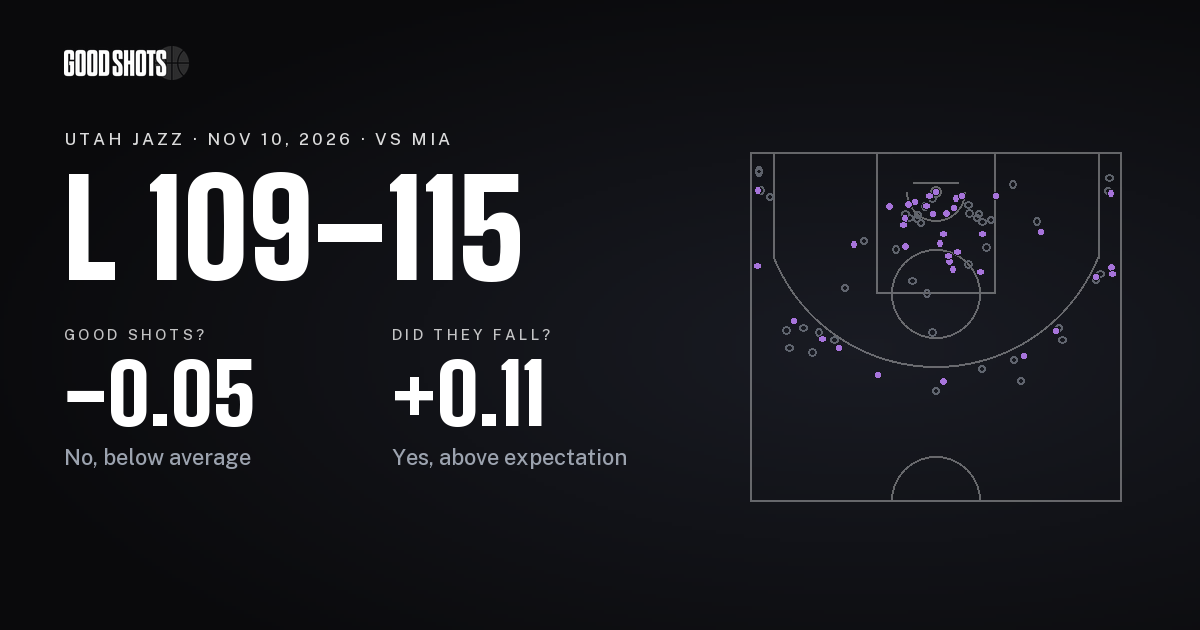
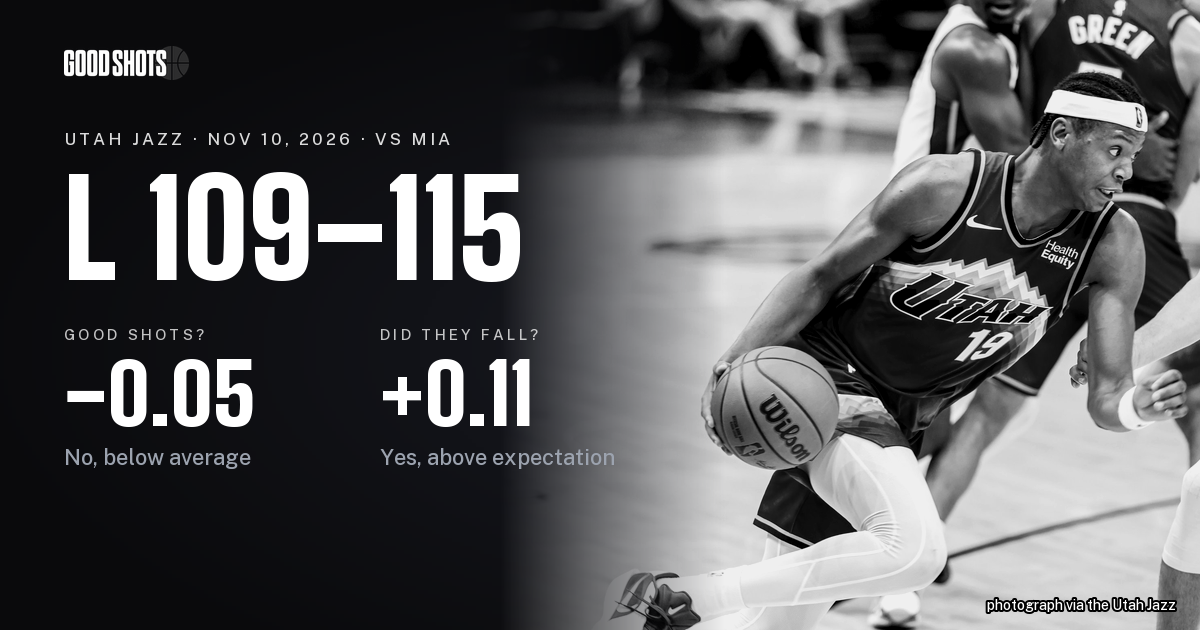
Give the Miami report card its game photograph
Ace Bailey's drive against a Heat defender, the header of the Jazz's
11-11 Orlando preview (DSC05310), credited "photograph via the Utah
Jazz" from an empty record. The game is verified by the opponent in the
frame: 11-10 is the Jazz's only Miami game. The recap header (DSC05158,
Peterson with no opponent in frame) was passed over because nothing in
it proves its game. Focal points checked in the browser at the 375px
poster and the wide panel; the share card redrawn with the photograph.

diff --git a/src/teams/gamePhotos.ts b/src/teams/gamePhotos.ts
@@ -102,6 +102,13 @@ export const GAME_PHOTOS: Readonly<Record<string, GamePhoto>> = {
     imagePosition: '20% 30%',
     imagePositionWide: '40% 30%',
   },
+  '2026-11-10-mia': {
+    imagePath: 'img/games/2026-11-10-mia.jpg',
+    imageAlt: 'Ace Bailey drives with the ball low as a Miami defender reaches across him, in the purple Jazz number 19 jersey',
+    imageCredit: 'photograph via the Utah Jazz',
+    imagePosition: '84% 40%',
+    imagePositionWide: '50% 22%',
+  },
 }
 
 export function gamePhotoOf(slug: string): GamePhoto | undefined {

diff --git a/docs/image-credits.md b/docs/image-credits.md
@@ -392,3 +392,24 @@ recap header. Chosen by the author the same day.
   checked (10-21, 10-25, 10-28, 10-31, 11-06, 11-08) came from its own
   game, and the author accepted the inference 2026-11-11. Focal points
   carried over from its banner use, the same poster layout.
+
+The photo finder listed two team frames for 11-10 after the session that
+published the game (2026-11-11, a day late behind the 11-02 correction),
+and the one that shows its opponent was picked the same day. Pulled
+2026-11-11 by `game:photo` and retained in
+`data/game-sources/2026-11-10-mia.jpg`; the record carries an empty
+credit and the file no embedded metadata, so it is credited "photograph
+via the Utah Jazz".
+
+- `public/img/games/2026-11-10-mia.jpg`, Ace Bailey (19, purple) driving
+  with the ball low as a Heat defender in white reaches across him, Josh
+  Green (Jazz) and a second Heat player behind them: the header of the
+  Jazz's 11-11 Orlando preview,
+  `cdn.nba.com/teams/uploads/sites/1610612762/2026/11/DSC05310.jpg`
+  (5762x4372). **The game is verified by the opponent**: Heat players are
+  in the frame, 11-10 is the Jazz's only game against Miami so far, and
+  the Jazz played no Heat preseason game (Denver, San Antonio, Phoenix).
+  The counter agrees, after 11-08's `DSC04513`. The game's recap header,
+  `.../2026/11/DSC05158.jpg` (Peterson, 22, purple, bringing the ball up
+  with no opponent in frame), is 152 frames earlier from the same camera
+  and was passed over because nothing in it proves its game.
